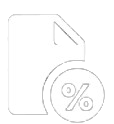
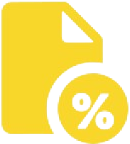
Icono reprote productos

diff --git a/ItaliaPizza-Cliente/Vistas/ReporteProductos.xaml b/ItaliaPizza-Cliente/Vistas/ReporteProductos.xaml
@@ -45,7 +45,7 @@
                             <RowDefinition Height="*"/>
                         </Grid.RowDefinitions>
 
-                        <Image Source="/Recursos/Iconos/icono_reporte.png" Grid.Column="0" Margin="8,4,1,5"/>
+                        <Image Source="/Recursos/Iconos/icono_reporte_nigga.png" Grid.Column="0" Margin="8,4,1,5"/>
                         <Label Content="Generar Reporte de Productos" Foreground="White" FontStretch="Medium" FontWeight="Medium" FontSize="14" Grid.Column="1"/>
                     </Grid>
                 </Border>
@@ -91,7 +91,7 @@
 
 
 
-                <Button Margin="29,487,237,24" Content="Registrar" FontSize="18" FontWeight="Bold" Foreground="White" BorderBrush="Black" Background="Black" Click="BtnGenerarReporte_Click"/>
+                <Button Margin="29,487,237,24" Content="Generar" FontSize="18" FontWeight="Bold" Foreground="White" BorderBrush="Black" Background="Black" Click="BtnGenerarReporte_Click"/>
                 <Button Margin="243,488,23,23" Content="Cancelar" FontSize="18" FontWeight="Bold" Foreground="White" BorderBrush="{x:Null}" Background="#FFD53C3C" Click="BtnCancelar_Click"/>
 
             </Grid>

diff --git a/ItaliaPizza-Cliente/MainWindow.xaml.cs b/ItaliaPizza-Cliente/MainWindow.xaml.cs
@@ -257,7 +257,7 @@ namespace ItaliaPizza_Cliente
         private void AgregarBotonReporteProductos()
         {
             BtnMenuLateral reprorteProductos = new BtnMenuLateral();
-            reprorteProductos.imgIconoBoton.Source = new BitmapImage(new Uri("/Recursos/Iconos/icono_proveedor.png", UriKind.Relative));
+            reprorteProductos.imgIconoBoton.Source = new BitmapImage(new Uri("/Recursos/Iconos/icono_reporte.png", UriKind.Relative));
             reprorteProductos.lblNombreBoton.Content = "Reportes";
             reprorteProductos.BtnMenuLateralClicked += BtnReporteProductos_Click;
             SkpMenuLateral.Children.Add(reprorteProductos);
